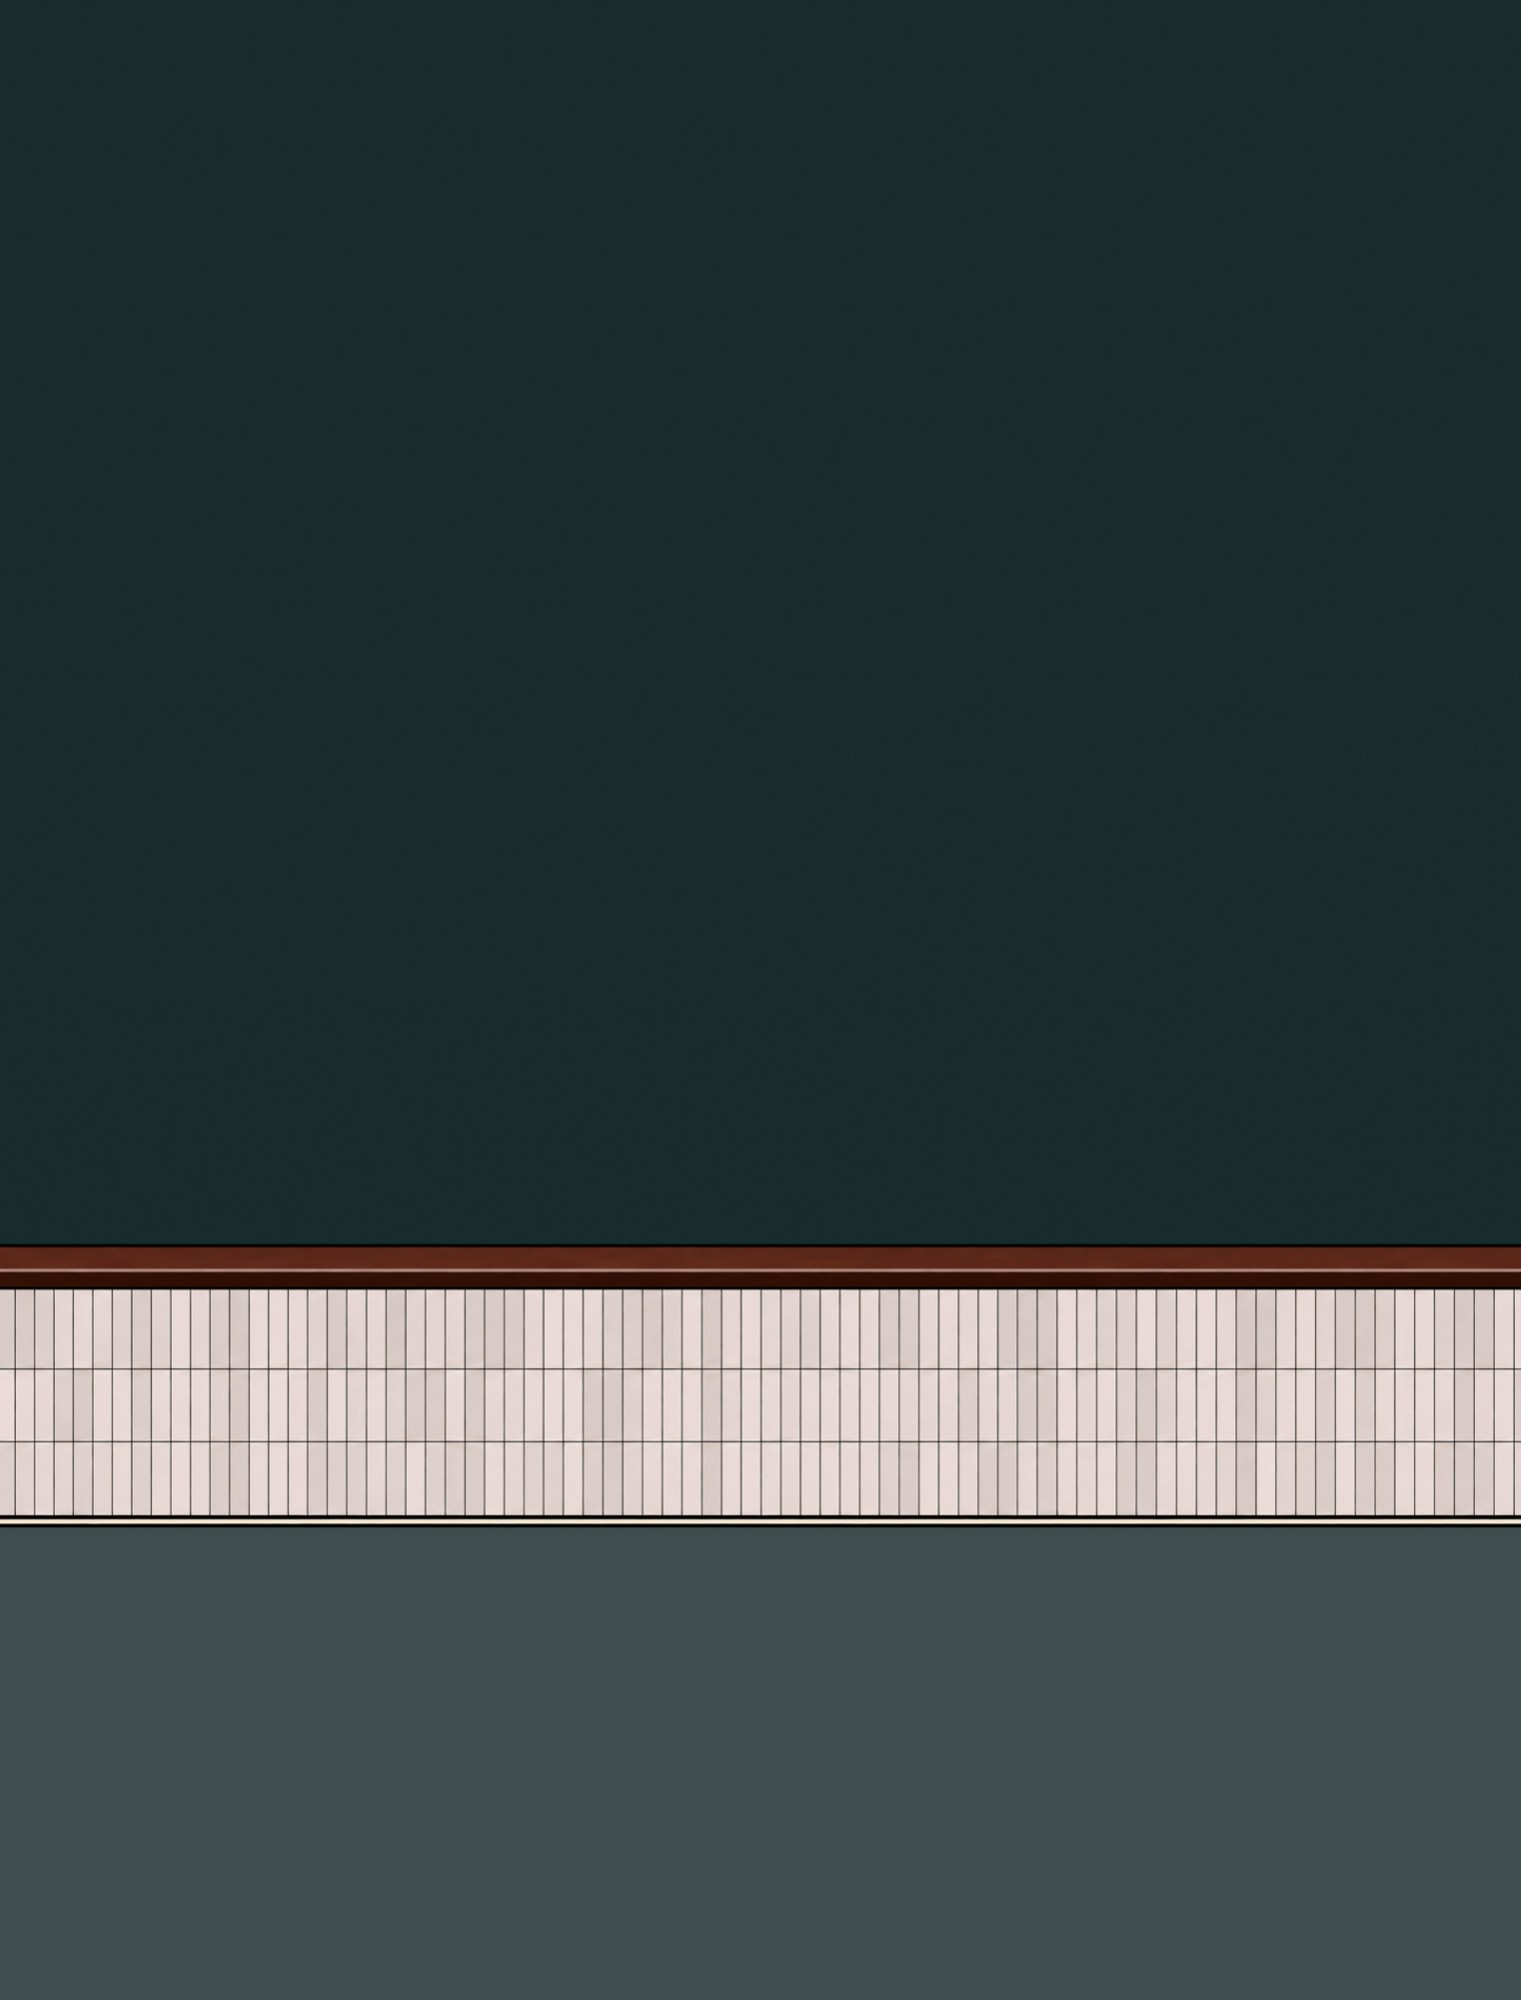
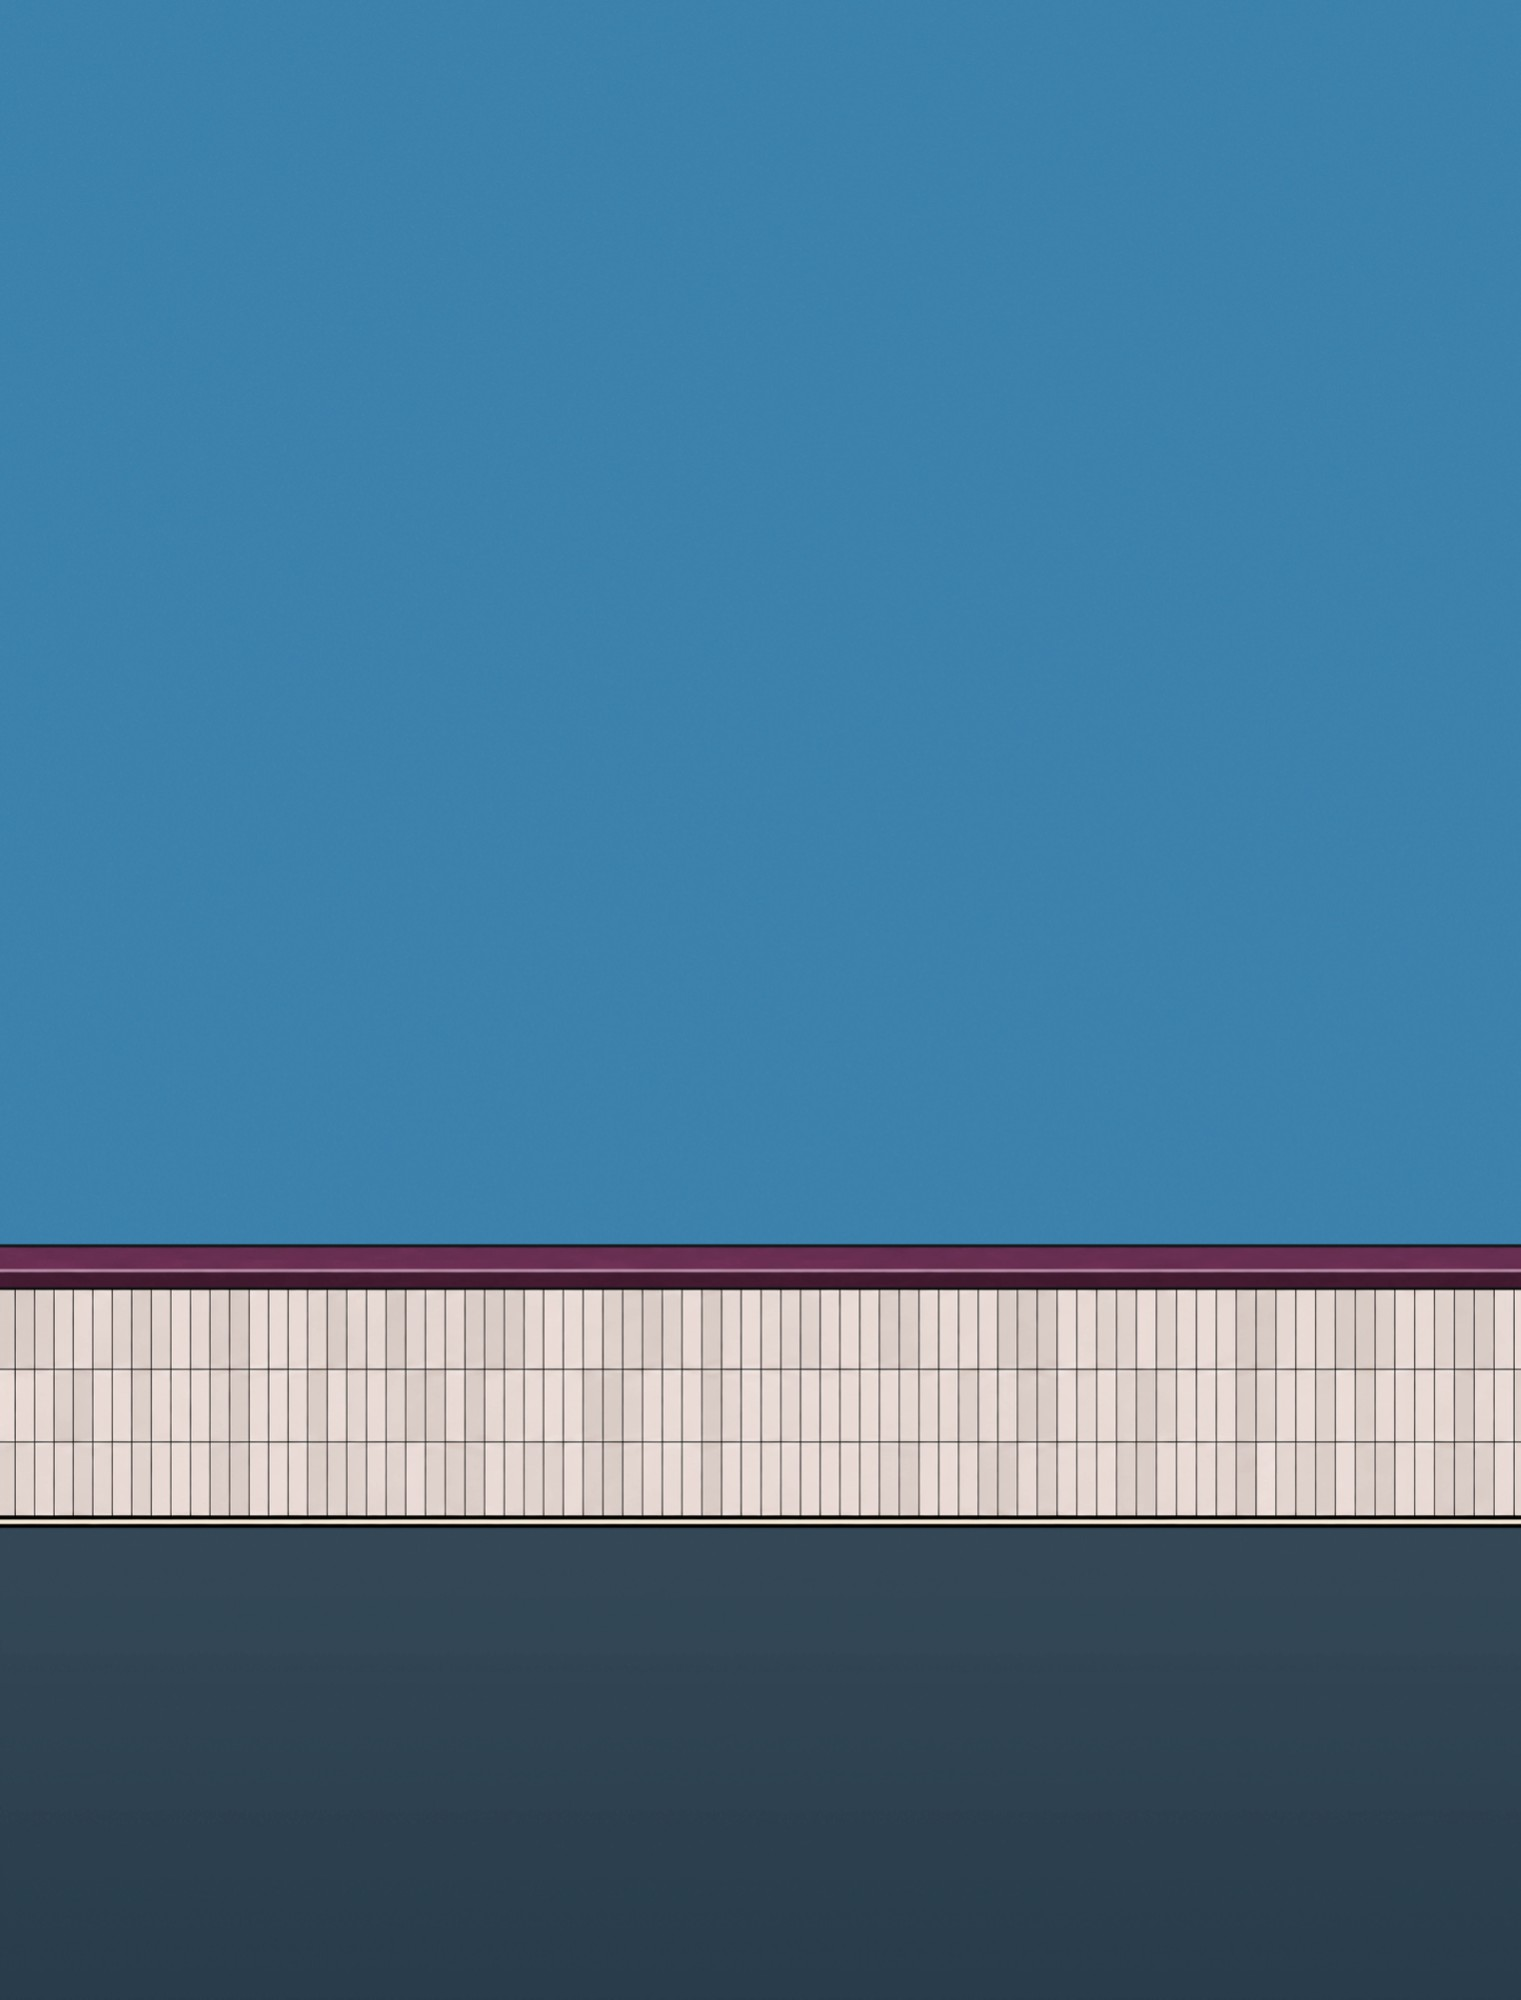
Black Friday: new blue stage background
Use the new tall background (stage-background.jpg) for the full wall
and floor, with the new wide version (stage-background-wide.jpg) laid
over it at native resolution around the bar. Both share the counter
line used before. The stage colour behind them matches the new wall.

Claude-Session: https://claude.ai/code/session_01TTUFYsUsJ6BSnb2dS8EKY5

diff --git a/black-friday-espresso-score/index.html b/black-friday-espresso-score/index.html
@@ -52,7 +52,7 @@
 html,body{height:100%;margin:0;overflow:hidden;background:#10191d}
 body{padding:0!important;display:block!important;height:100%!important}
 main{max-width:none!important;padding:0!important;margin:0!important;display:block!important}
-.scene.physical{background:#182c2b!important;position:fixed!important;inset:0!important;width:100vw!important;height:100vh!important;height:100dvh!important;min-height:0!important;max-width:none!important;border:0!important;border-radius:0!important;overflow:hidden!important;display:block!important;flex:none!important;margin:0!important}
+.scene.physical{background:#3c81ab!important;position:fixed!important;inset:0!important;width:100vw!important;height:100vh!important;height:100dvh!important;min-height:0!important;max-width:none!important;border:0!important;border-radius:0!important;overflow:hidden!important;display:block!important;flex:none!important;margin:0!important}
 .scene.physical>svg{position:absolute;inset:0;width:100%!important;height:100%!important;min-width:0!important;max-height:none!important}
 .stage-ui{position:absolute;left:0;right:0;z-index:5;display:flex;gap:16px;padding:14px max(20px,env(safe-area-inset-right)) 14px max(20px,env(safe-area-inset-left));pointer-events:none}
 .stage-ui>*{pointer-events:auto}
@@ -191,7 +191,7 @@ html,body,#barSvg,#barSvg *{-webkit-tap-highlight-color:transparent}
 #barSvg{-webkit-touch-callout:none;-webkit-user-select:none;user-select:none}
 </style></head><body><dialog id="resultDialog" aria-labelledby="resultTitle"><div class="pour-view"><svg viewBox="0 0 300 225" role="img" aria-label="Close-up of espresso pouring into the cup"><defs><clipPath id="cupInside"><path d="M82 111H211L198 189Q149 211 96 189Z"/></clipPath><linearGradient id="cremaShade" x2="0" y2="1"><stop stop-color="#efc777"/><stop offset="1" stop-color="#975421"/></linearGradient></defs><rect width="300" height="225" rx="16" fill="#101c20"/><g aria-label="Shot timer"><rect x="207" y="14" width="83" height="48" rx="6" fill="#1b3035" stroke="#496167"/><text x="248" y="29" text-anchor="middle" fill="#a8bebc" style="font:9px system-ui;letter-spacing:1px">SHOT TIME</text><text id="closeupShotTimer" x="248" y="50" text-anchor="middle" fill="#ffc095" style="font:bold 19px monospace">0.0s</text></g><ellipse cx="149" cy="207" rx="104" ry="10" fill="#899c97"/><path d="M86 110H214L201 190Q148 215 95 190Z" fill="#f1ebda" stroke="#c1cfc6" stroke-width="4"/><path d="M215 122Q263 120 248 157Q239 174 209 165" fill="none" stroke="#ece6d7" stroke-width="12"/><g clip-path="url(#cupInside)"><rect id="pourLiquid" x="80" y="198" width="136" height="110" fill="#603219"/><ellipse id="pourCrema" cx="147" cy="198" rx="65" ry="10" fill="url(#cremaShade)"/></g><ellipse cx="150" cy="111" rx="65" ry="11" fill="none" stroke="#f9f3e4" stroke-width="5"/><path d="M93 0H207V24Q150 43 93 24Z" fill="#98abae" stroke="#e4eeeb" stroke-width="3"/><ellipse cx="150" cy="27" rx="57" ry="16" fill="#283b3d" stroke="#dbe6e1" stroke-width="5"/><ellipse cx="150" cy="28" rx="46" ry="11" fill="#76502b"/><path d="M112 26h76M118 31h64" stroke="#b89767" stroke-width="2" stroke-dasharray="2 4"/><path id="bottomlessFlow" d="M108 28Q120 37 136 39Q146 43 147 54Q150 43 160 39Q179 36 192 28Q150 35 108 28Z" fill="#bd792b" opacity="0"/><path id="pourStream" d="M146 52Q143 79 147 115L147 194" fill="none" stroke="#b37737" stroke-width="5" opacity="0"/><text id="pourCaption" x="150" y="77" text-anchor="middle" fill="#e9e3d4" style="font:12px system-ui">Preparing to pour…</text></svg></div><div class="result-copy"><h2 id="resultTitle">Your attempt</h2><div id="resultTime"></div><p id="resultFeedback"></p><p id="levelStatus"></p></div><div class="result-actions"><button id="tryAgain">Try again</button><button id="viewBar">View bar</button><button id="nextLevel" hidden>Next</button></div></dialog><dialog id="challengeDialog" aria-labelledby="challengeTitle"><form method="dialog"><h2 id="challengeTitle">Make an espresso.<br>In 25 seconds.</h2><p>Remove a portafilter to start the clock.</p><button class="challenge-start">Let’s go</button></form></dialog><main><div class="scene physical"><svg viewBox="290 410 1280 720" role="img" aria-label="Interactive espresso workstation" id="barSvg" style="overflow:visible">
 <defs><radialGradient id="readyGlow"><stop offset=".6" stop-color="#53ef8a" stop-opacity=".15"/><stop offset=".8" stop-color="#53ef8a" stop-opacity=".05"/><stop offset="1" stop-color="#53ef8a" stop-opacity="0"/></radialGradient><radialGradient id="lampHalo"><stop offset="0" stop-color="currentColor" stop-opacity=".9"/><stop offset="1" stop-color="currentColor" stop-opacity="0"/></radialGradient><radialGradient id="pumpGlow"><stop offset=".29" stop-color="#ffffff" stop-opacity="0"/><stop offset=".33" stop-color="#ffffff" stop-opacity=".95"/><stop offset=".45" stop-color="#b8ffcf" stop-opacity=".8"/><stop offset=".7" stop-color="#53ef8a" stop-opacity=".45"/><stop offset="1" stop-color="#53ef8a" stop-opacity="0"/></radialGradient><radialGradient id="hotGlow"><stop offset="0" stop-color="#fff2a8" stop-opacity=".95"/><stop offset=".5" stop-color="#ffd54a" stop-opacity=".5"/><stop offset="1" stop-color="#ffb000" stop-opacity="0"/></radialGradient><linearGradient id="steel" x2="0" y2="1"><stop stop-color="#d2dddd"/><stop offset=".5" stop-color="#758e94"/><stop offset="1" stop-color="#bacbcd"/></linearGradient></defs>
-<image href="assets/stage-background.jpg" x="-2000" y="-743.8" width="2000" height="2629.8"/><image href="assets/stage-background.jpg" x="0" y="-743.8" width="2000" height="2629.8"/><image href="assets/stage-background.jpg" x="2000" y="-743.8" width="2000" height="2629.8"/>
+<image href="assets/stage-background.jpg" x="-2000" y="-743.8" width="2000" height="2629.8"/><image href="assets/stage-background.jpg" x="0" y="-743.8" width="2000" height="2629.8"/><image href="assets/stage-background.jpg" x="2000" y="-743.8" width="2000" height="2629.8"/><image href="assets/stage-background-wide.jpg" x="-2000" y="0" width="2000" height="1513"/><image href="assets/stage-background-wide.jpg" x="0" y="0" width="2000" height="1513"/><image href="assets/stage-background-wide.jpg" x="2000" y="0" width="2000" height="1513"/>
 <g data-cl="R" transform="translate(858 0)" class="target" data-zone="grinder" tabindex="0" role="button" aria-label="Grind-to-weight grinder. Tap to dose 20 grams."><rect x="446" y="400" width="288" height="536" rx="32" class="hit" fill="transparent" pointer-events="all"/><circle id="grinderReady" r="1" transform="translate(590 670) scale(165 265)" fill="url(#readyGlow)"/><image href="assets/grinder.webp" x="472" y="427" width="236.1" height="482.3" transform="translate(1180.1 0) scale(-1 1)"/>
 <rect id="grindScreen" x="557" y="670" width="64" height="46" rx="4" fill="#26313a"/><text id="grindCountdown" x="589" y="693" fill="#fff" style="font-size:20px;font-weight:800;font-variant-numeric:tabular-nums">5.0s</text><text id="gbwDisplay" x="589" y="711" fill="#cfe9ff" style="font-size:13px;font-weight:700">20.0 g</text>
 <g id="grindLamp"><circle class="grind-lamp-halo" cx="590" cy="727" r="20" fill="url(#lampHalo)"/><circle id="doseGlow" cx="590" cy="727" r="7" fill="#4c6058"/><circle cx="588" cy="725" r="2.2" fill="#fff" opacity=".7" pointer-events="none"/></g>
